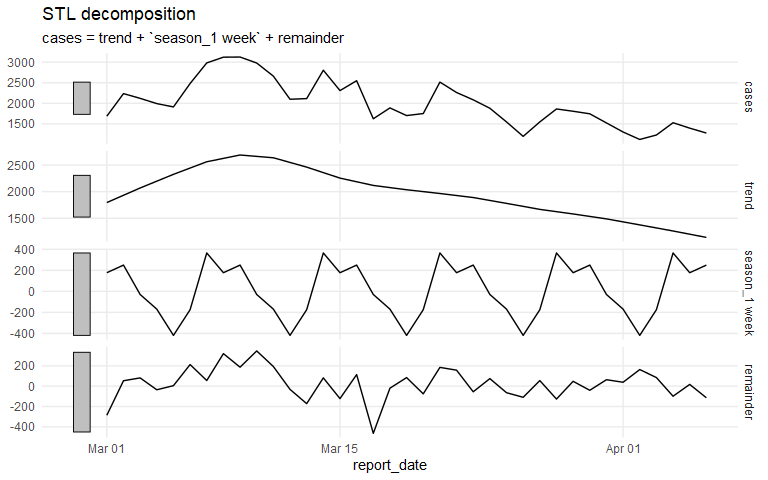
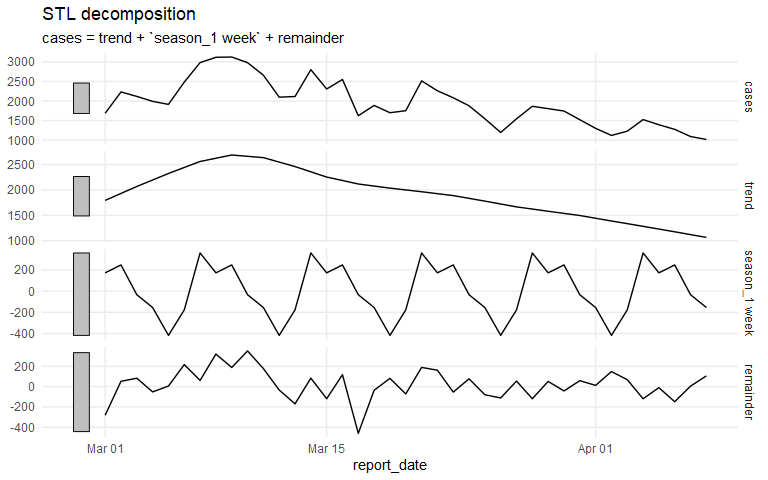
Refresh for 20220409

diff --git a/covid-time-series.md b/covid-time-series.md
@@ -16,11 +16,14 @@ cases_df <- read_csv(case_data_url) %>%
   clean_names()
 ```
 
-    ## Rows: 741987 Columns: 7
+    ## Warning: One or more parsing issues, see `problems()` for details
+
+    ## Rows: 760540 Columns: 7
 
     ## -- Column specification --------------------------------------------------------
     ## Delimiter: ","
-    ## chr  (6): Case Status, Sex, Age group, DHB, Overseas travel, Historical
+    ## chr  (5): Case Status, Sex, Age group, DHB, Overseas travel
+    ## lgl  (1): Historical
     ## date (1): Report Date
 
     ## 
@@ -142,9 +145,9 @@ maxima <- dhb_cases_stl_df %>%
   summarise(cases = max(cases), adjusted = max(season_adjust), trend = max(trend))
 ```
 
-Looking at raw case numbers, the peak on 2022-03-09 was about 2.8 times what it is now.
+Looking at raw case numbers, the peak on 2022-03-09 was about 3.1 times what it is now.
 
-But when adjusting for the weekly pattern, it was 2.9 times the current adjusted value, and the trend was about 2.4 times the current trend line.
+But when adjusting for the weekly pattern, it was 2.9 times the current adjusted value, and the trend was about 2.5 times the current trend line.
 
 While the trend is possibly over-smoothed, the peak coincinded with the strong weekly pattern, suggesting that the apparent difference between the peak and now was exaggerated by weekly differences in reporting.
 
